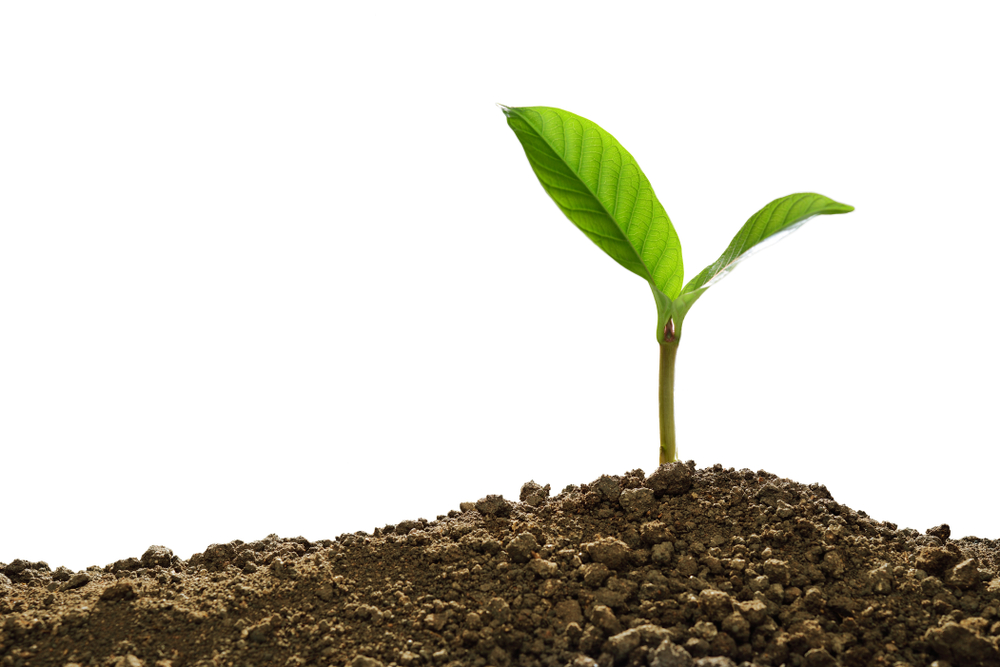
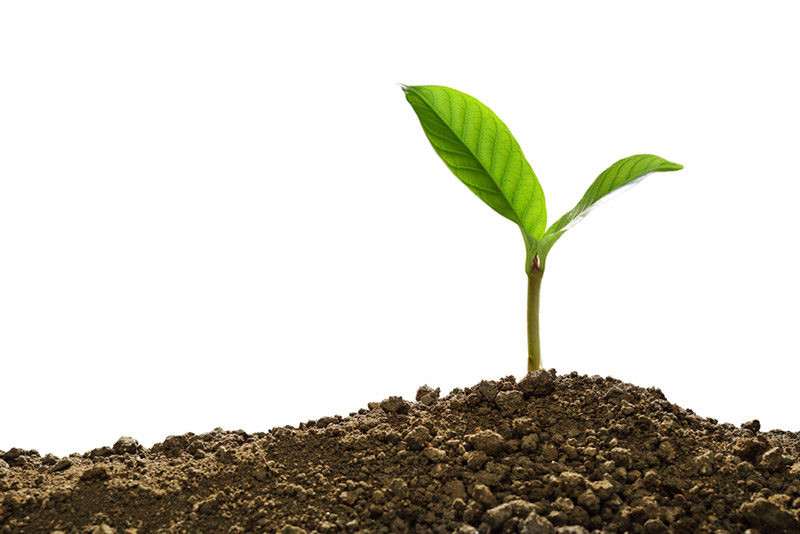
画像圧縮

Changed region(s): [[0.9688, 0.809, 1.0, 0.839], [0.5, 0.779, 0.5312, 0.809], [0.2812, 0.809, 0.3125, 0.839]]

diff --git a/docs/index.html b/docs/index.html
@@ -95,7 +95,7 @@
           <div class="container">
             <div class="row row-50">
               <div class="col-md-6 col-xl-4">
-                <div class="thumbnail-classic"><img src="images/about1.png" alt="" width="418" height="315"/>
+                <div class="thumbnail-classic"><img src="images/about1.jpg" alt="" width="418" height="315"/>
                   <div class="caption">
                     <h5>白の仲間</h5>
                     <p>多彩なメンバーで構成された、ディレクターチームです。</p>
@@ -111,7 +111,7 @@
                 </div>
               </div>
               <div class="col-md-6 col-xl-4">
-                <div class="thumbnail-classic"><img src="images/about3.png" alt="" width="418" height="315"/>
+                <div class="thumbnail-classic"><img src="images/about3.jpg" alt="" width="418" height="315"/>
                   <div class="caption">
                     <h5>白の意識</h5>
                     <p>日本人の美しい文化や感性を活かして、コト/モノを創ります。</p>
@@ -180,7 +180,7 @@
                     <li><strong>オウンドメディア開発・運用</strong></li>
                   </ul>
             </div>
-            <div class="col-md-11 col-lg-10 col-xl-6"><img src="images/service_media.png" alt="" width="652" height="491"/>
+            <div class="col-md-11 col-lg-10 col-xl-6"><img src="images/service_media.jpg" alt="" width="652" height="491"/>
             </div>
           </div>
         </div>
